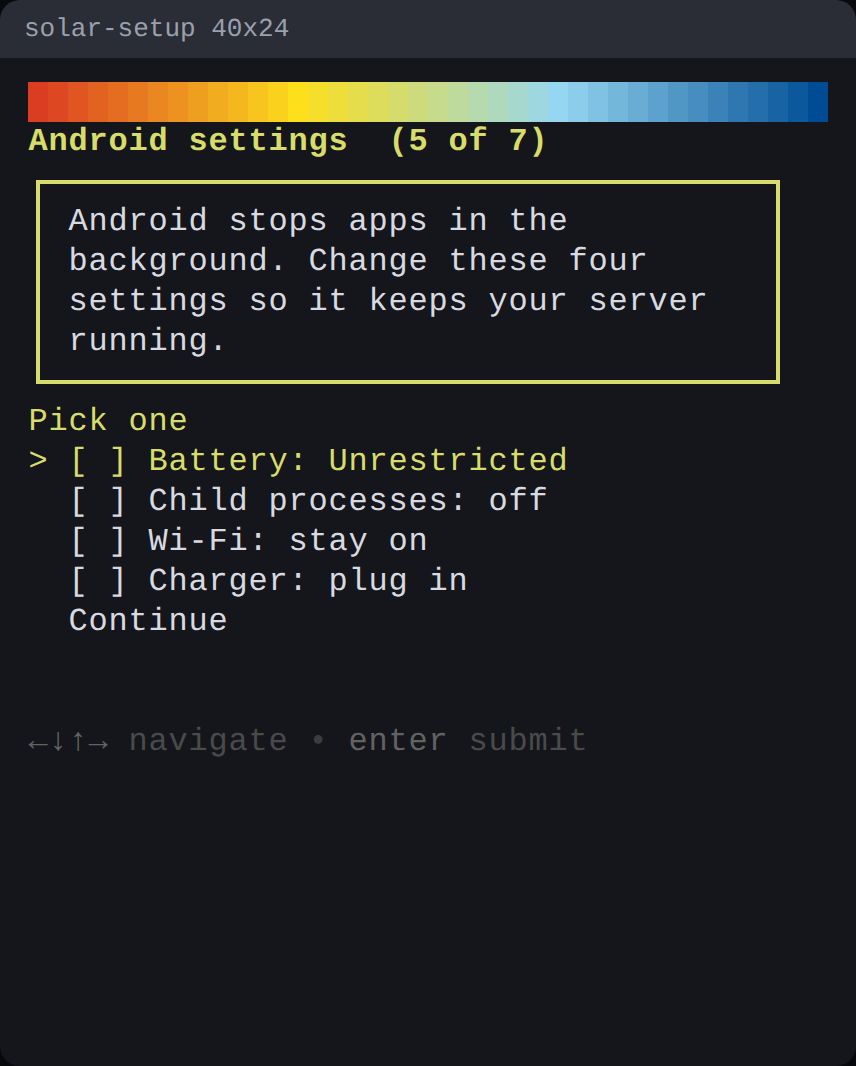
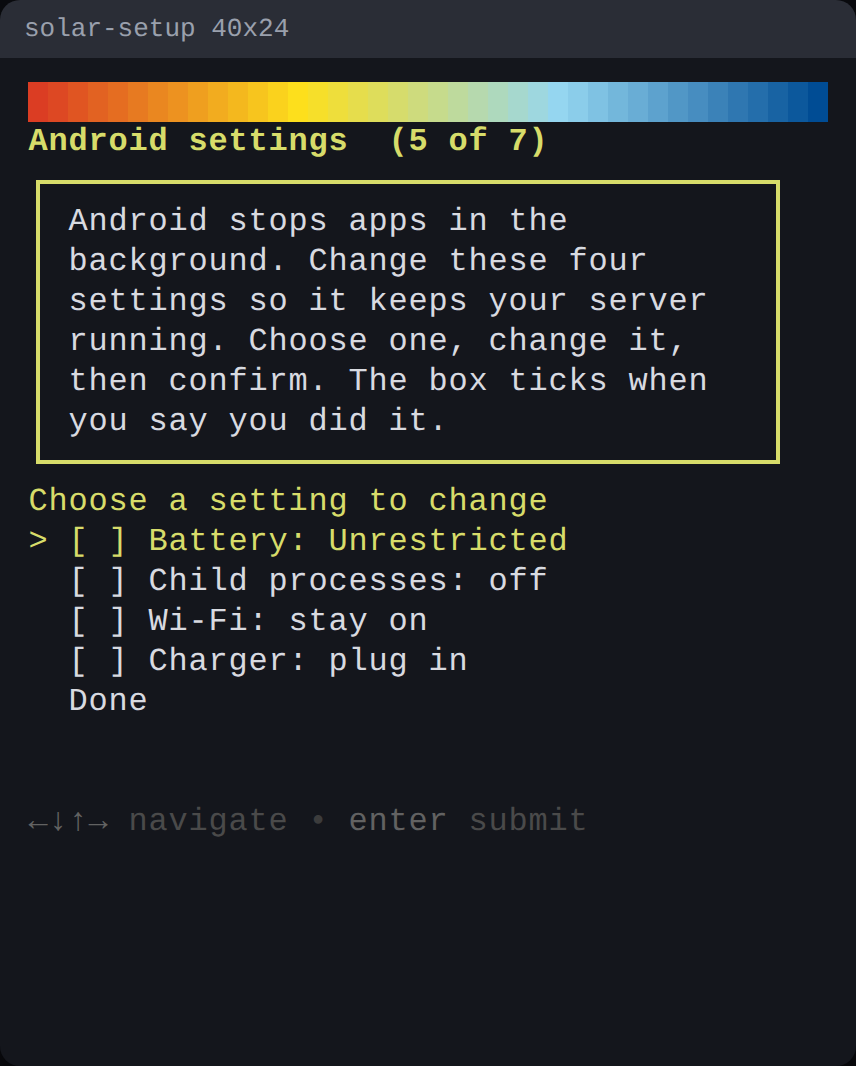
Android settings screen: say that you change the setting and confirm it
Prompt 'Choose a setting to change', question 'Did you change it?', last item 'Done',
box text explains that the box ticks when you say you did it. Screenshot re-rendered.

diff --git a/docs/setup.md b/docs/setup.md
@@ -33,9 +33,9 @@ The paragraph box wraps long text, so nothing runs off a narrow screen. Press En
 
 ### Android settings (Termux)
 
-![The Android settings screen on a phone-sized terminal: four items to pick and Continue.](images/setup/termux-android.png)
+![The Android settings screen on a phone-sized terminal: four settings to choose, then Done.](images/setup/termux-android.png)
 
-Pick an item. `solar-setup` tells you what to change, opens that Android settings screen with `am start`, and asks `Did you do this?`. A ticked item shows `[x]`. Choose Continue when you finish. The server runs without them, but Android may stop it in the background.
+Choose a setting to change. `solar-setup` tells you what to change and opens that Android settings screen with `am start`, when Android has one. Change the setting by hand, come back, and answer `Did you change it?`. `solar-setup` cannot check the setting, so the box ticks (`[x]`) when you say you did it. Choose Done at any time, even with unticked boxes. The server runs without them, but Android may stop it in the background.
 
 ### Done, and the QR code
 

diff --git a/docs/termux.md b/docs/termux.md
@@ -51,7 +51,7 @@ Press Enter to start the guided setup. If you answer `n`, or you run the install
 
 ![The welcome screen of solar-setup on a phone-sized terminal.](images/setup/termux-welcome.png)
 
-![The Android settings screen of solar-setup: four settings to tick, then Continue.](images/setup/termux-android.png)
+![The Android settings screen of solar-setup: four settings to choose, change and confirm, then Done.](images/setup/termux-android.png)
 
 ![The last screen: a QR code with the address of the site under it.](images/setup/termux-done.png)
 
